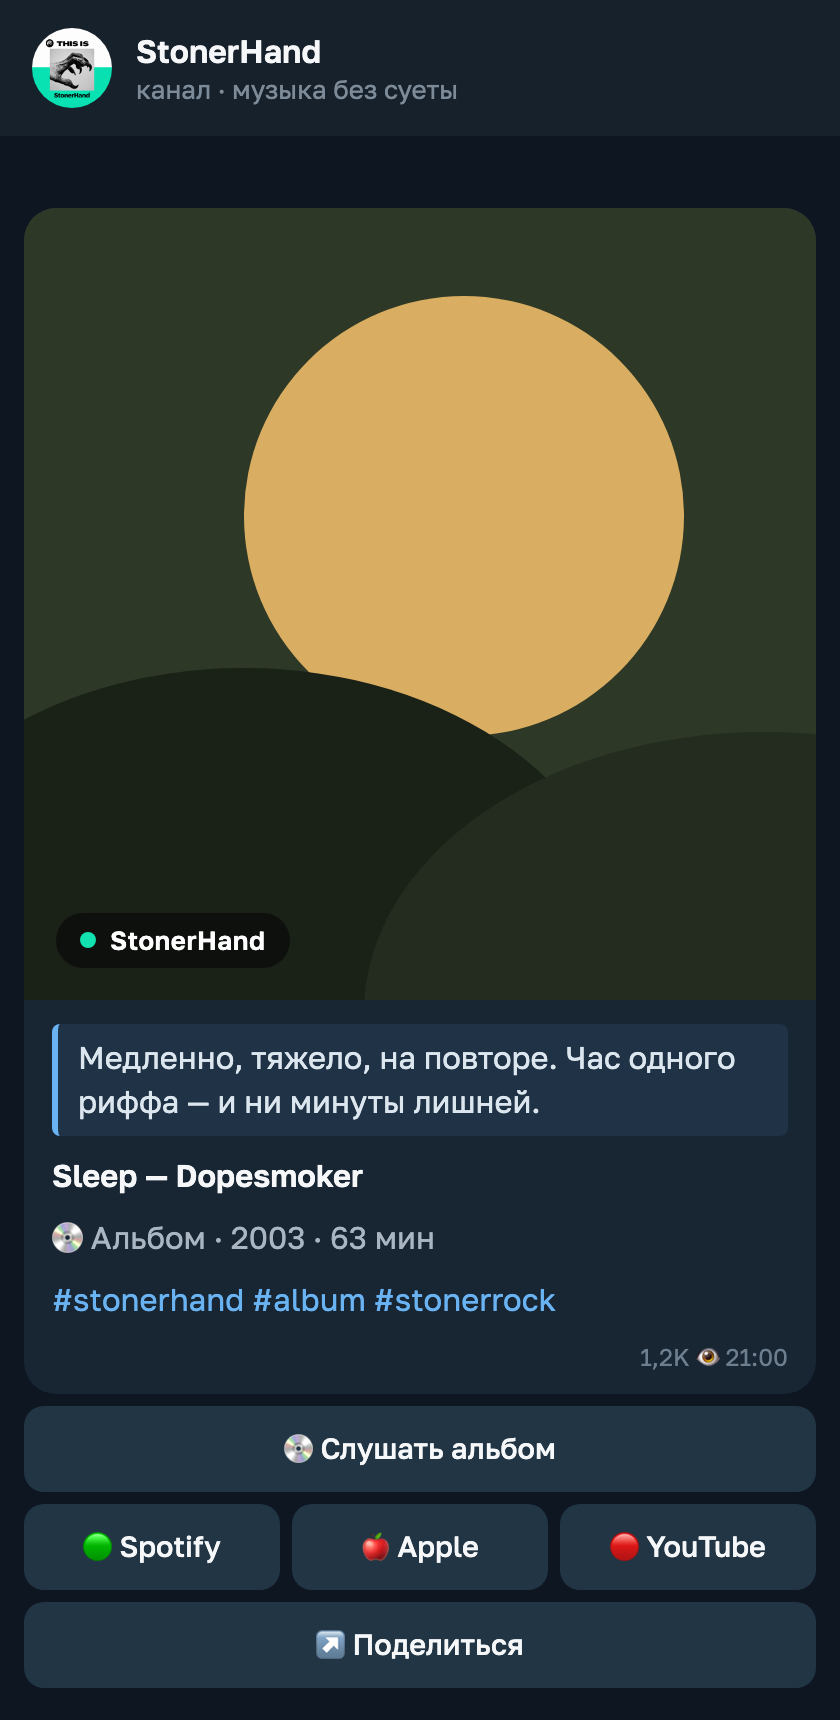
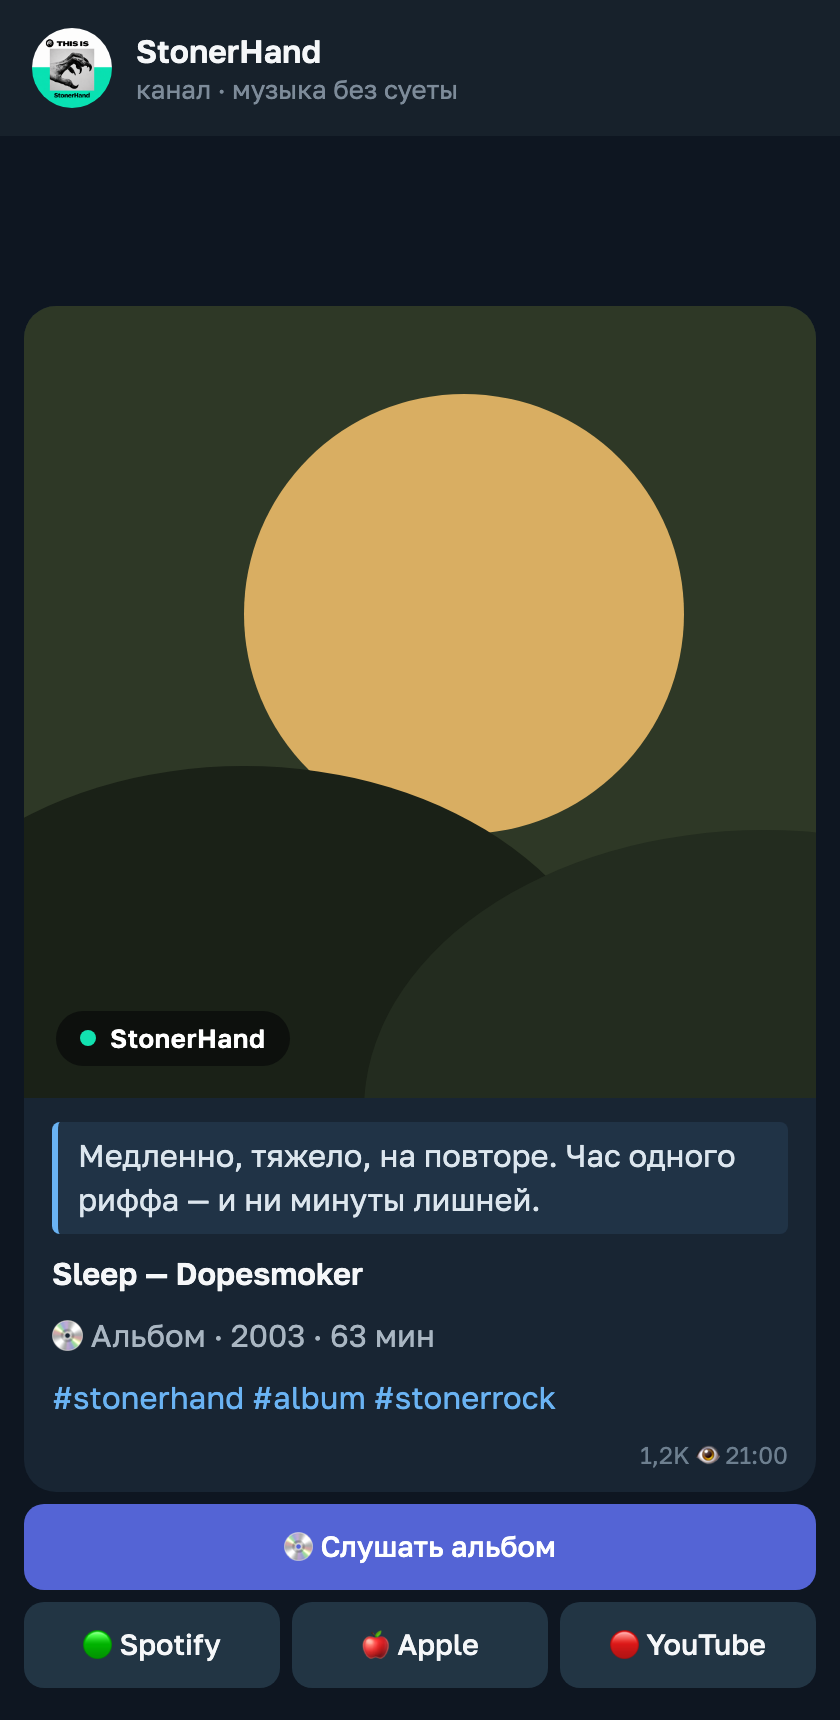
chore: refresh GitHub — CI on Python 3.10–3.14, current previews, docs
- CI matrix and package classifiers cover Python 3.13 and 3.14.
- README previews re-exported from Claude Design: blue main button,
  current collection list style.
- Docs: no stale release numbers in headings, "теги" wording, current
  mypy scope.

Changed region(s): [[0.031, 0.5238, 0.9905, 0.986], [0.031, 0.1233, 0.9905, 0.493], [0.7738, 0.7703, 0.9286, 0.8012]]

diff --git a/tests/test_release_readiness.py b/tests/test_release_readiness.py
@@ -75,7 +75,7 @@ class ReleaseReadinessTests(unittest.TestCase):
     def test_ci_enforces_complete_release_gate(self) -> None:
         workflow = (ROOT / ".github/workflows/ci.yml").read_text(encoding="utf-8")
 
-        self.assertIn('python-version: ["3.10", "3.11", "3.12"]', workflow)
+        self.assertIn('python-version: ["3.10", "3.11", "3.12", "3.13", "3.14"]', workflow)
         self.assertIn("python -m pytest -q", workflow)
         self.assertIn("python -m ruff check src api tests", workflow)
         self.assertIn("python -m ruff format --check src api tests", workflow)

diff --git a/README.md b/README.md
@@ -28,7 +28,7 @@
 ## ✨ Что умеет
 
 - 🔗 **Любая ссылка или запрос.** Spotify, Apple Music, YouTube, SoundCloud, Deezer, Tidal, Bandcamp, Яндекс Музыка, NTS — или просто `артист — трек`.
-- 🖼 **Пост с обложкой.** Обложка с подписью канала, название, год, длительность, умные хэштеги и кнопки всех площадок.
+- 🖼 **Пост с обложкой.** Обложка с подписью канала, название, год, длительность, умные теги и кнопки всех площадок.
 - 🎶 **Подборки.** До 10 треков, альбомов и клипов в одном посте с общим коллажем.
 - ✏ **Редактор в чате.** Свой текст, теги, вид поста и набор кнопок — без команд и форм.
 - 📣 **Публикация в канал.** Сразу, по расписанию («завтра 18:30») или быстрой публикацией в одно касание; 2 минуты на отмену.
@@ -79,7 +79,7 @@ Telegram ──▶ Vercel /api/telegram ──▶ поиск релиза (Songl
 QStash каждые 5 мин ──▶ /api/queue_worker ──▶ отложенные публикации
 ```
 
-Python, [python-telegram-bot](https://python-telegram-bot.org), serverless-функции Vercel. CI проверяет Python 3.10–3.12, тесты с покрытием, типы, стиль и безопасность. Подробности — в [архитектуре](docs/ARCHITECTURE.ru.md), изменения — в [CHANGELOG](CHANGELOG.md).
+Python, [python-telegram-bot](https://python-telegram-bot.org), serverless-функции Vercel. CI проверяет Python 3.10–3.14, тесты с покрытием, типы, стиль и безопасность. Подробности — в [архитектуре](docs/ARCHITECTURE.ru.md), изменения — в [CHANGELOG](CHANGELOG.md).
 
 ## 📄 Лицензия
 

diff --git a/docs/SETUP.ru.md b/docs/SETUP.ru.md
@@ -183,7 +183,7 @@ python -m coverage report
 python -m mypy
 ```
 
-[CI](../.github/workflows/ci.yml) запускает тесты на Python 3.10–3.12.
+[CI](../.github/workflows/ci.yml) запускает тесты на Python 3.10–3.14.
 Минимальное покрытие с учётом ветвлений — 72%. Проверка Mypy настроена на
 четыре модуля; это не полная проверка типов всего проекта.
 
@@ -227,7 +227,7 @@ legacy-записи, созданные до появления индекса. 
 для экземпляра и помечены `metrics_scope: instance`; это не глобальные показатели.
 
 
-## Производительность и диагностика 1.21
+## Производительность и диагностика
 
 `BRAND_PHOTO_FRAME` и `BRAND_LABEL` действуют для обычных обложек и коллажей.
 `BRAND_LOGO_URL` задаёт дополнительный логотип обычной обложки. Готовые JPEG

diff --git a/docs/README.en.md b/docs/README.en.md
@@ -19,7 +19,7 @@
 ## ✨ Features
 
 - 🔗 **Any link or query** — Spotify, Apple Music, YouTube, SoundCloud, Deezer, Tidal, Bandcamp, Yandex Music, NTS, or just `artist — track`.
-- 🖼 **Posts with artwork** — signed cover, title, year, length, smart hashtags and buttons for every platform.
+- 🖼 **Posts with artwork** — signed cover, title, year, length, smart tags and buttons for every platform.
 - 🎶 **Collections** — up to 10 tracks, albums and videos in one post with a shared collage.
 - ✏ **In-chat editor** — your own text, tags, look and buttons.
 - 📣 **Channel publishing** — now, on a schedule ("tomorrow 18:30") or with one-tap quick publish; 2 minutes to undo.
